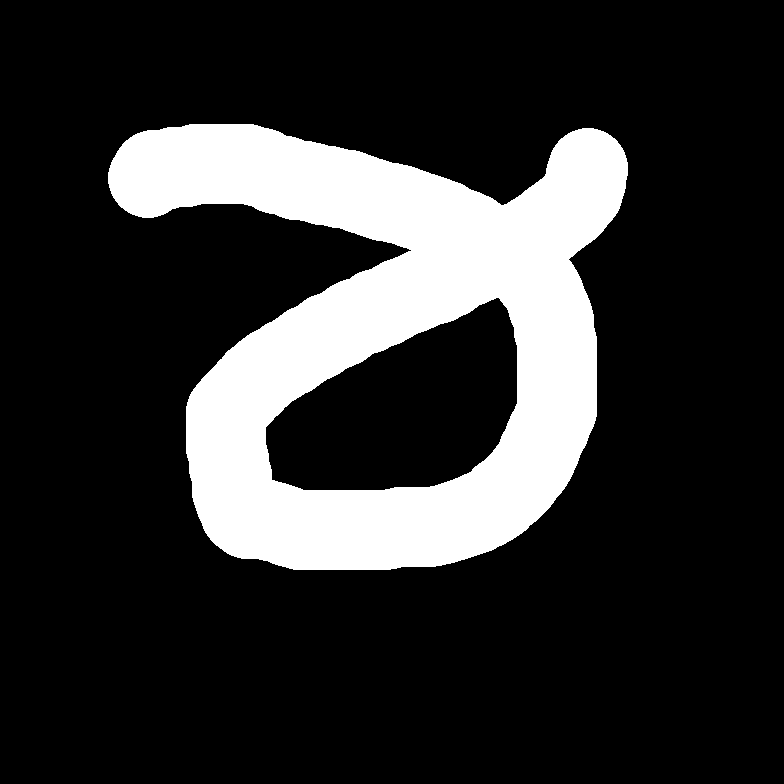
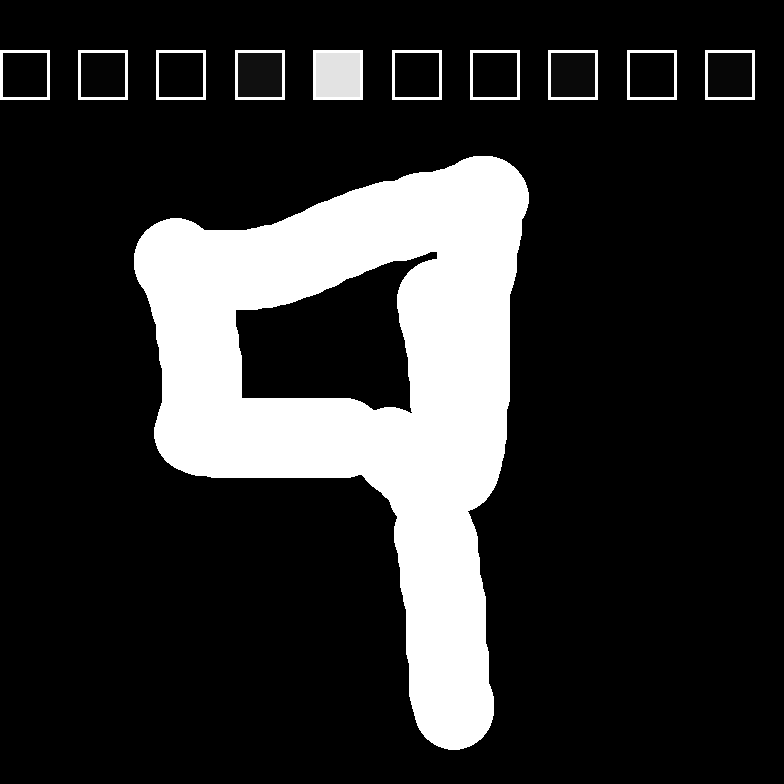
made squares to represent output neuron activations

diff --git a/network_run.py b/network_run.py
@@ -47,13 +47,16 @@ while True:
 		pygame.draw.circle(window, ((255, 255, 255)), (mouse_pos[0], mouse_pos[1]), 40)
 		drawing = True
 
+	elif pygame.mouse.get_pressed()[2]:
+		window.fill((0, 0, 0))
+		drawing = False
+
 	elif drawing == True:
 		data = np.array(get_averages(window))
 		data = data / 255
 		net.forwardprop(data)
+		for count, output in enumerate(net.output):
+			pygame.draw.rect(window, (output * 255, output * 255, output * 255), (78.4 * count, 50, 50, 50))
+			pygame.draw.rect(window, (255, 255, 255), (78.4 * count, 50, 50, 50), 3)
 		print(np.argmax(net.output))
-		drawing = False
-
-	elif pygame.mouse.get_pressed()[2]:
-		window.fill((0, 0, 0))
 		drawing = False
